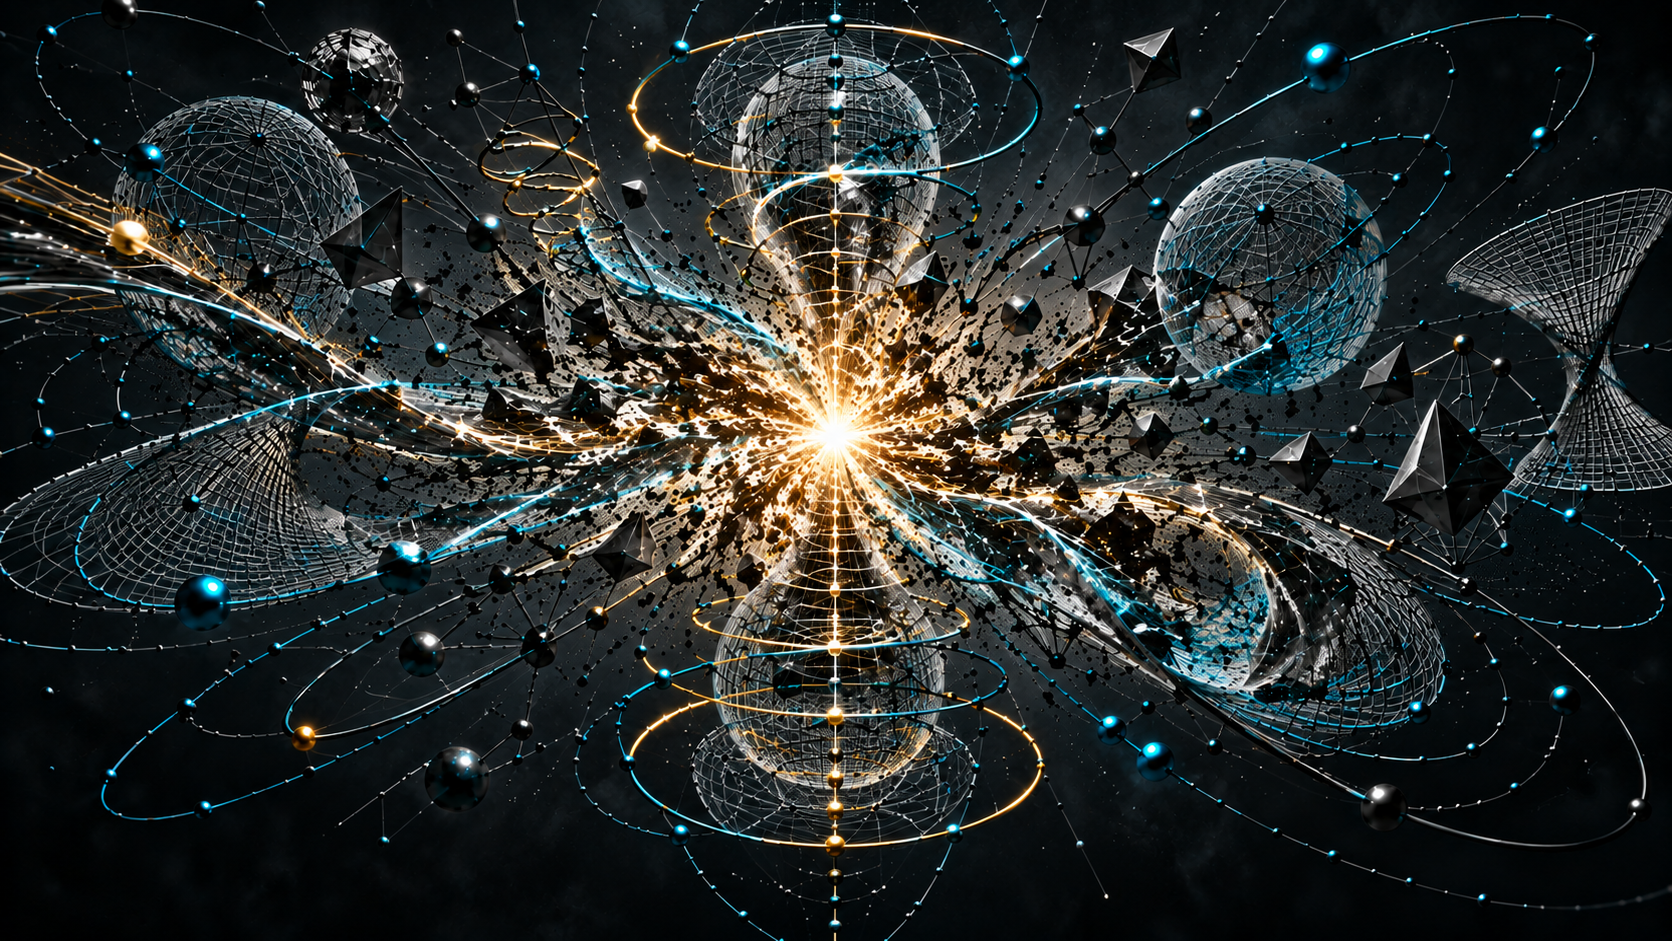
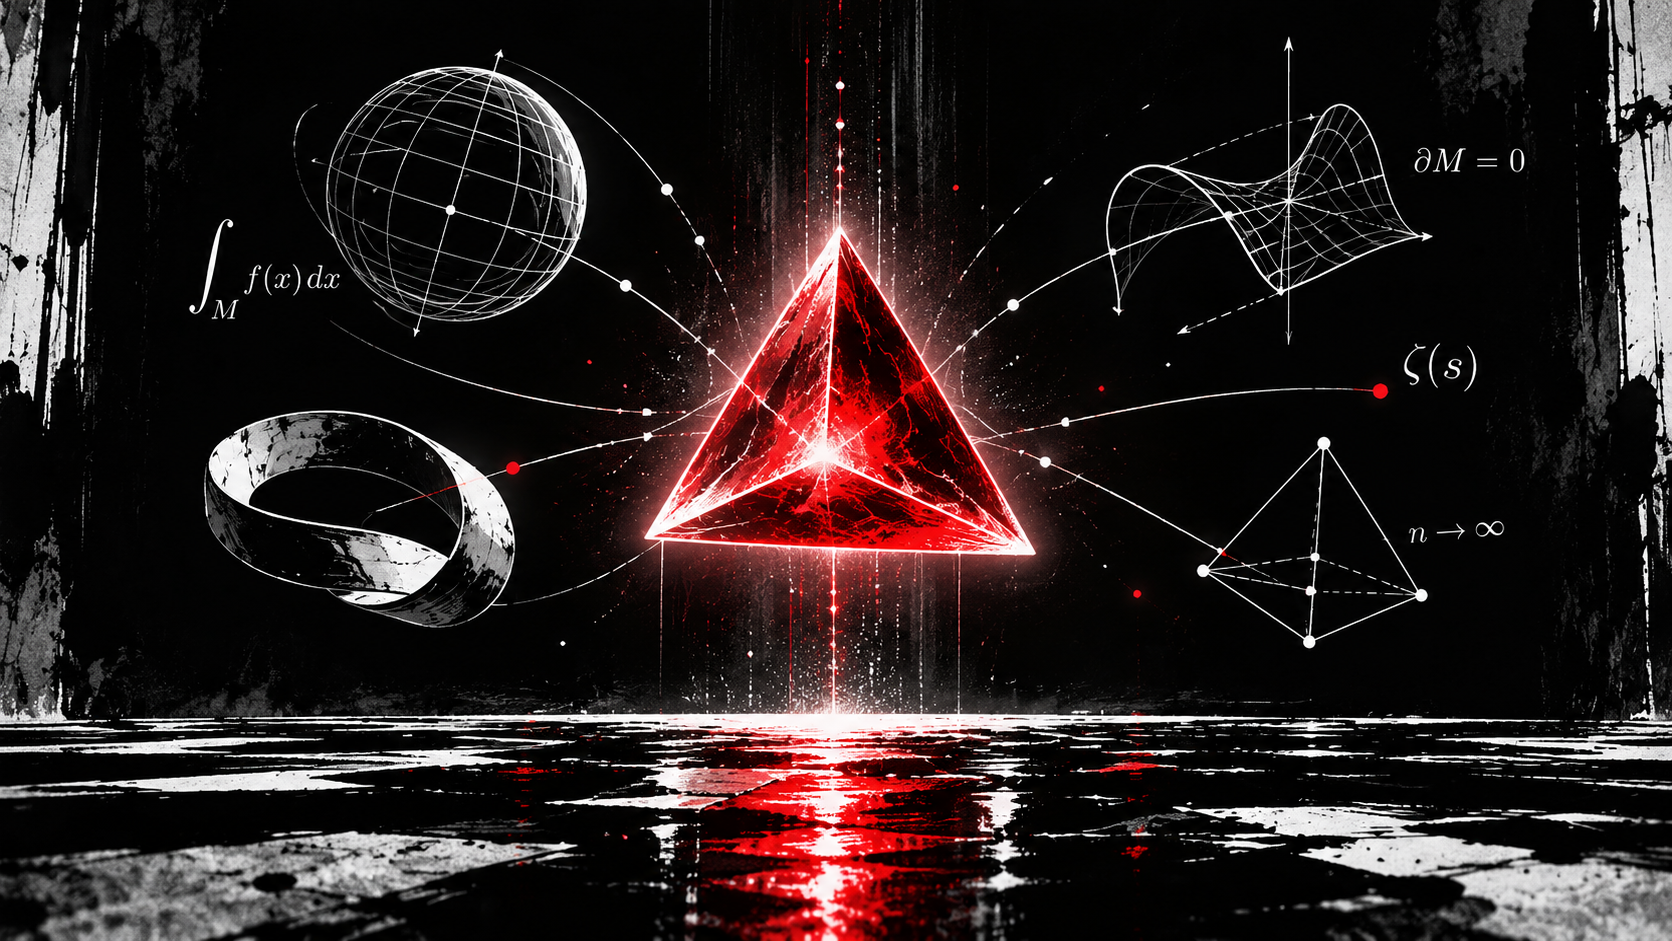
up

diff --git a/docs/index.html b/docs/index.html
@@ -2095,7 +2095,7 @@ intermediate
 </blockquote>
 <div id="listing-posts_home" class="quarto-listing quarto-listing-container-grid">
 <div class="list grid quarto-listing-cols-3">
[2 lines of base64/hex data omitted]
 <a href="./posts/ai-agents-solving-open-problems-changing-mathematics/index.html" class="quarto-grid-link">
 <div class="quarto-grid-item card h-100 card-left">
 <p class="card-img-top">
@@ -4966,7 +4966,7 @@ Difficulty
 </div>
 <div id="listing-rss_all" style="display: none;" aria-hidden="true" class="quarto-listing quarto-listing-container-default">
 <div class="list quarto-listing-default">
[2 lines of base64/hex data omitted]
 <div class="thumbnail"><a href="./posts/ai-agents-solving-open-problems-changing-mathematics/index.html" class="no-external">
 
 <img loading="lazy" src="./posts/ai-agents-solving-open-problems-changing-mathematics/math-singularity.png" class="thumbnail-image">

diff --git a/docs/topics.html b/docs/topics.html
@@ -2551,7 +2551,7 @@ intermediate
 </blockquote>
 <div id="listing-topic_posts" class="quarto-listing quarto-listing-container-grid">
 <div class="list grid quarto-listing-cols-3">
[2 lines of base64/hex data omitted]
 <a href="./posts/ai-agents-solving-open-problems-changing-mathematics/index.html" class="quarto-grid-link">
 <div class="quarto-grid-item card h-100 card-left">
 <p class="card-img-top">

diff --git a/docs/posts.html b/docs/posts.html
@@ -314,7 +314,7 @@ window.Quarto = {
 
 <div id="listing-posts_all" class="quarto-listing quarto-listing-container-grid">
 <div class="list grid quarto-listing-cols-3">
[2 lines of base64/hex data omitted]
 <a href="./posts/ai-agents-solving-open-problems-changing-mathematics/index.html" class="quarto-grid-link">
 <div class="quarto-grid-item card h-100 card-left">
 <p class="card-img-top">

diff --git a/docs/posts/ai-agents-solving-open-problems-changing-mathematics/index.html b/docs/posts/ai-agents-solving-open-problems-changing-mathematics/index.html
@@ -1298,7 +1298,7 @@ T_{\min}
 <div aria-describedby="fig-when-open-problems-became-benchmarks-search-system-caption-0ceaefa1-69ba-4598-a22c-09a6ac19f8ca">
 <div>
 <pre class="mermaid mermaid-js" data-label="fig-when-open-problems-became-benchmarks-search-system">%%{init: {"theme": "neo", "look": "handDrawn", "layout": "elk"}}%%
-flowchart LR
+flowchart TD
     A[Problem formulations] --&gt;|seed trajectories| B(Parallel mathematical search)
     C[(Literature and prior results)] --&gt;|supply context| B
     D[Code and computational tools] --&gt;|test constructions| B
